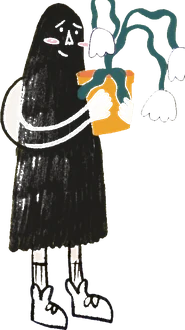
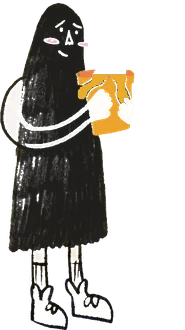
Walk game: Pink/Orange/Blue to pick, shadow guy waits with an empty pot, bouquet fan with stems, still strawberries that speed you up, smaller flowers

diff --git a/assets/walk.js b/assets/walk.js
@@ -16,21 +16,22 @@
   var W = 0, H = 0, U = 1, DPR = 1; // canvas size in css pixels, and one "design unit" (H / 360)
   var SPEED = 70;                   // how fast the hill scrolls, in design units per second
   var CHARS = [
-    { id: 'pink', label: 'Pink', h: 118, lift: 0 },
-    { id: 'orange', label: 'Orange', h: 96, lift: 0 },
-    { id: 'blue', label: 'Blue', h: 84, lift: 16 },
-    { id: 'shadow', label: 'Shadow', h: 122, lift: 0 }
+    { id: 'pink', label: 'Pink', h: 104, lift: 0 },
+    { id: 'orange', label: 'Orange', h: 84, lift: 0 },
+    { id: 'blue', label: 'Blue', h: 74, lift: 14 }
   ];
+  var FRIEND = { id: 'shadow', h: 132, lift: 0 };   // waits at the end of the hill, with an empty pot
+  // the flowers she drew, whole: stem, leaves and all. They are shrunk down to fit the bouquet.
   var FLOWERS = [
-    { img: 'tulip-red-1', h: 104 }, { img: 'tulip-yel-1', h: 56 }, { img: 'tulip-red-2', h: 96 },
-    { img: 'daisy', h: 56 }, { img: 'tulip-yel-2', h: 60 }, { img: 'tulip-yel-3', h: 58 }
+    { img: 'tulip-red-1', h: 52, stem: '#357a7c' }, { img: 'tulip-yel-1', h: 32, stem: '#168a45' }, { img: 'tulip-red-2', h: 50, stem: '#357a7c' },
+    { img: 'daisy', h: 34, stem: '#b9c5a2' }, { img: 'tulip-yel-2', h: 32, stem: '#168a45' }, { img: 'tulip-yel-3', h: 32, stem: '#168a45' }
   ];
   var LADYBUG_LINES = ['keep going', 'you are doing great', 'small steps count', 'take your time', 'I am glad you are here'];
   var quotes = [], shareArt = 0, ladyLines = LADYBUG_LINES.slice();
 
   var IMG = {};
   var NAMES = ['pink', 'orange', 'blue', 'shadow', 'tulip-red-1', 'tulip-red-2', 'tulip-yel-1', 'tulip-yel-2', 'tulip-yel-3',
-    'daisy', 'strawberry', 'ladybug', 'sparkle', 'bird-left', 'bird-right'];
+    'daisy', 'strawberry', 'ladybug', 'sparkle'];
 
   /* ---------- Art ---------- */
   function loadArt() {
@@ -54,13 +55,13 @@
 
   /* ---------- World ---------- */
   var S = null;       // the current walk
-  var chosen = CHARS[0], friendChar = CHARS[1];
+  var chosen = CHARS[0], friendChar = FRIEND;
   var grass = [], clouds = [];
 
   function newWalk() {
     S = {
       mode: 'walk', t: 0, scroll: 0, step: 0,
-      got: 0, treats: 0, flowers: [],
+      got: 0, treats: 0, boost: 0, flowers: [],
       px: 0, py: 0, vy: 0, squash: 0, slow: 0, hopped: false,
       items: [], spawnIn: 0.8, sinceFlower: 0, ladyIn: 7, lady: null,
       drops: [], bits: [], gift: 0, friend: null, endIn: 0, shown: false
@@ -76,10 +77,10 @@
     S.sinceFlower++;
     var type = (S.sinceFlower >= 2 && r < 0.62) || S.sinceFlower >= 4 ? 'flower' : (r < 0.8 ? 'puddle' : 'treat');
     if (type === 'flower') S.sinceFlower = 0;
-    var it = { type: type, x: W + 120 * U, got: false, hit: false };
-    if (type === 'flower') { var f = FLOWERS[Math.floor(Math.random() * FLOWERS.length)]; it.img = f.img; it.h = f.h; }
+    var it = { type: type, x: W + 120 * U, got: false, hit: false, id: Math.random() * 6 };
+    if (type === 'flower') { var f = FLOWERS[Math.floor(Math.random() * FLOWERS.length)]; it.img = f.img; it.h = f.h; it.stem = f.stem; }
     if (type === 'puddle') { it.w = 118 + Math.random() * 40; }
-    if (type === 'treat') { it.img = 'strawberry'; it.h = 40; it.lift = 92 + Math.random() * 20; }
+    if (type === 'treat') { it.img = 'strawberry'; it.h = 34; it.lift = 84 + Math.random() * 16; }
     S.items.push(it);
     S.spawnIn = gap;
   }
@@ -113,11 +114,10 @@
     var top = mix([169, 214, 245], [246, 182, 160], p), low = mix([254, 246, 220], [255, 224, 170], p);
     var g = ctx.createLinearGradient(0, 0, 0, groundY()); g.addColorStop(0, rgb(top)); g.addColorStop(1, rgb(low));
     ctx.fillStyle = g; ctx.fillRect(0, 0, W, H);
-    var sx = W * 0.8, sy = H * (0.2 + 0.26 * p);
-    ctx.fillStyle = '#ffd94a'; ctx.strokeStyle = INK; ctx.lineWidth = 3 * U;
-    ctx.beginPath(); ctx.arc(sx, sy, 24 * U, 0, 7); ctx.fill(); ctx.stroke();
-    ctx.fillStyle = '#f590c9'; ctx.globalAlpha = 0.7; ctx.beginPath(); ctx.ellipse(sx - 9 * U, sy + 5 * U, 5 * U, 3 * U, 0, 0, 7); ctx.ellipse(sx + 9 * U, sy + 5 * U, 5 * U, 3 * U, 0, 0, 7); ctx.fill(); ctx.globalAlpha = 1;
-    ctx.strokeStyle = INK; ctx.lineWidth = 2 * U; ctx.beginPath(); ctx.arc(sx - 8 * U, sy - 2 * U, 4 * U, 0.15 * Math.PI, 0.85 * Math.PI); ctx.arc(sx + 8 * U, sy - 2 * U, 4 * U, 0.15 * Math.PI, 0.85 * Math.PI); ctx.stroke();
+    // the sun peeks in from the top right corner (a flat placeholder until her painted sun is added)
+    var sr = 84 * U;
+    ctx.fillStyle = '#e0b43c'; ctx.strokeStyle = INK; ctx.lineWidth = 3 * U;
+    ctx.beginPath(); ctx.arc(W + 8 * U, -8 * U, sr, 0, 7); ctx.fill(); ctx.stroke();
   }
   function drawClouds() {
     clouds.forEach(function (c) {
@@ -162,26 +162,36 @@
     ctx.save(); ctx.translate(x, y); ctx.scale(s, s); ctx.globalAlpha = a; ctx.fillStyle = '#f590c9'; ctx.strokeStyle = INK; ctx.lineWidth = 1.5;
     ctx.beginPath(); ctx.moveTo(0, 6); ctx.bezierCurveTo(-14, -4, -8, -14, 0, -6); ctx.bezierCurveTo(8, -14, 14, -4, 0, 6); ctx.fill(); ctx.stroke(); ctx.restore();
   }
-  // The bouquet in the corner grows with every flower gathered. At the end it travels to the friend.
-  function drawBouquet(bx, by, scale, spread) {
-    var n = S.flowers.length;
-    for (var i = 0; i < n; i++) {
-      var t = n === 1 ? 0.5 : i / (n - 1), ang = (-0.62 + 1.24 * t) * spread;
-      pic(S.flowers[i].img, bx, by, S.flowers[i].h * 0.62 * scale, ang);
-    }
-    if (n) {
-      ctx.fillStyle = '#f590c9'; ctx.strokeStyle = INK; ctx.lineWidth = 2 * U;
-      ctx.beginPath(); ctx.ellipse(bx - 9 * U * scale, by - 2 * U, 10 * U * scale, 6 * U * scale, -0.4, 0, 7); ctx.ellipse(bx + 9 * U * scale, by - 2 * U, 10 * U * scale, 6 * U * scale, 0.4, 0, 7); ctx.fill(); ctx.stroke();
-      ctx.beginPath(); ctx.arc(bx, by - 2 * U, 4 * U * scale, 0, 7); ctx.fillStyle = '#ffd94a'; ctx.fill(); ctx.stroke();
+  // The bouquet grows with every flower gathered: the whole flowers fan out from one point, small and tidy,
+  // with paper and a bow at the bottom. `inPot` draws just the flowers (no paper) for the friend's pot.
+  var SLOTS = [0, 1, -1, 2, -2, 3, -3, 4];
+  function drawBouquet(bx, by, scale, inPot) {
+    var n = S.flowers.length, k = 0.78 * scale;
+    var order = []; for (var i = 0; i < n; i++) order.push(i);
+    order.sort(function (a, b) { return Math.abs(SLOTS[b]) - Math.abs(SLOTS[a]); });   // outer flowers first, middle on top
+    order.forEach(function (i) {
+      var f = S.flowers[i], a = SLOTS[i] * 0.17 * (inPot ? 0.62 : 1), len = (30 - 2.5 * Math.abs(SLOTS[i])) * U * scale;
+      var ex = bx + Math.sin(a) * len, ey = by - Math.cos(a) * len;
+      ctx.strokeStyle = f.stem || '#357a7c'; ctx.lineWidth = 3 * U * scale; ctx.lineCap = 'round';
+      ctx.beginPath(); ctx.moveTo(bx, by - 2 * U); ctx.lineTo(ex, ey + 2 * U); ctx.stroke();
+      pic(f.img, ex, ey, (34 + f.h * 0.8) * k * (1 - 0.035 * Math.abs(SLOTS[i])), a);
+    });
+    if (n && !inPot) {
+      var w = 15 * U * scale;
+      ctx.fillStyle = '#fffdf7'; ctx.strokeStyle = INK; ctx.lineWidth = 2 * U; ctx.lineJoin = 'round';
+      ctx.beginPath(); ctx.moveTo(bx - w, by - 13 * U * scale); ctx.lineTo(bx + w, by - 13 * U * scale); ctx.lineTo(bx + 3 * U * scale, by + 9 * U * scale); ctx.lineTo(bx - 3 * U * scale, by + 9 * U * scale); ctx.closePath(); ctx.fill(); ctx.stroke();
+      ctx.fillStyle = '#f590c9';
+      ctx.beginPath(); ctx.ellipse(bx - 6 * U * scale, by - 5 * U * scale, 6 * U * scale, 3.4 * U * scale, -0.35, 0, 7); ctx.ellipse(bx + 6 * U * scale, by - 5 * U * scale, 6 * U * scale, 3.4 * U * scale, 0.35, 0, 7); ctx.fill(); ctx.stroke();
+      ctx.beginPath(); ctx.arc(bx, by - 5 * U * scale, 2.4 * U * scale, 0, 7); ctx.fillStyle = '#ffd94a'; ctx.fill(); ctx.stroke();
     }
   }
   function drawHud() {
-    var x = 64 * U, y = 118 * U;
+    var x = 64 * U, y = 128 * U;
     ctx.fillStyle = 'rgba(255,253,247,.8)'; ctx.strokeStyle = INK; ctx.lineWidth = 2.5 * U;
-    ctx.beginPath(); ctx.roundRect ? ctx.roundRect(12 * U, 12 * U, 104 * U, 112 * U, 14 * U) : ctx.rect(12 * U, 12 * U, 104 * U, 112 * U); ctx.fill(); ctx.stroke();
+    ctx.beginPath(); ctx.roundRect ? ctx.roundRect(12 * U, 12 * U, 104 * U, 128 * U, 14 * U) : ctx.rect(12 * U, 12 * U, 104 * U, 128 * U); ctx.fill(); ctx.stroke();
     ctx.fillStyle = INK; ctx.font = '600 ' + 13 * U + 'px "Comic Sans MS","Comic Neue",cursive'; ctx.textAlign = 'center';
     ctx.fillText(S.got + ' of ' + NEED, 64 * U, 32 * U); ctx.textAlign = 'left';
-    if (S.mode !== 'gift' && S.mode !== 'done') drawBouquet(x, y, 1, 1);
+    if (S.mode !== 'gift' && S.mode !== 'done') drawBouquet(x, y, 1, false);
   }
   function drawBubble(x, y, text) {
     ctx.font = '700 ' + 14 * U + 'px "Comic Sans MS","Comic Neue",cursive';
@@ -201,20 +211,27 @@
     if (S.friend) drawTree(S.friend.x + 10 * U);
     S.items.forEach(function (it) {
       if (it.type === 'puddle') drawPuddle(it.x, it.w, it.hit);
-      else if (!it.got) { var sway = Math.sin(S.t * 2 + it.x * 0.02) * 0.04; pic(it.img, it.x, groundY() - (it.lift || 0) * U + (it.type === 'treat' ? Math.sin(S.t * 2.4 + it.x) * 4 * U : 0), it.h, sway); }
+      else if (!it.got) { var sway = it.type === 'treat' ? 0.05 : Math.sin(S.t * 1.4 + it.id) * 0.03; pic(it.img, it.x, groundY() - (it.lift || 0) * U, it.h, sway); }
     });
+    var happy = (S.mode === 'gift' || S.mode === 'done') && S.gift >= 1, pot = null, fb = 0;
     if (S.friend) {
-      var fb = Math.max(0, Math.sin(S.t * 3.2)) * 7 * U * (S.mode === 'gift' || S.mode === 'done' ? 1.6 : 0.6);
-      pic(friendChar.id, S.friend.x, groundY() - fb - friendChar.lift * U, friendChar.h * 0.95, Math.sin(S.t * 2) * 0.03);
+      fb = Math.max(0, Math.sin(S.t * 3.2)) * 7 * U * (happy ? 1.8 : 0.5);
+      var fs = friendChar.h * U / 330, fy = groundY() - fb - friendChar.lift * U;
+      pot = { x: S.friend.x + (110 - 92.5) * fs, y: fy + (94 - 330) * fs };
+      if (happy) drawBouquet(pot.x, pot.y, 0.55, true);          // the flowers stand in his pot, behind its front
+      pic(friendChar.id, S.friend.x, fy, friendChar.h, happy ? Math.sin(S.t * 5) * 0.035 : Math.sin(S.t * 2) * 0.02);
     }
     // the walker: little bob, a squash when landing, and a lift for the floaty blue one
     var bob = S.mode === 'walk' && S.slow <= 0 ? Math.sin(S.t * 6) * 1.8 * U : 0, sq = S.squash > 0 ? 1 - 0.1 * S.squash : 1;
     pic(chosen.id, playerX(), groundY() + S.py - chosen.lift * U + bob - (chosen.lift ? Math.sin(S.t * 2.2) * 5 * U : 0), chosen.h, Math.sin(S.t * 3) * 0.035, 1 / sq, sq);
     // gift on its way to the friend
     if (S.mode === 'gift' || S.mode === 'done') {
-      var k = Math.min(1, S.gift), ease = k * k * (3 - 2 * k), fx = S.friend.x - 34 * U;
-      drawBouquet(64 * U + (fx - 64 * U) * ease, 118 * U + (groundY() - 40 * U - 118 * U) * ease - Math.sin(ease * Math.PI) * 30 * U, 1 + 0.5 * ease, 1);
-      if (k >= 1) for (var h = 0; h < 4; h++) drawHeart(S.friend.x + Math.sin(S.t * 1.8 + h * 1.7) * 30 * U, groundY() - (90 + ((S.t * 22 + h * 24) % 70)) * U, 1.3 * U / 1.0, 0.9);
+      var k = Math.min(1, S.gift), ease = k * k * (3 - 2 * k);
+      if (k < 1) drawBouquet(64 * U + (pot.x - 64 * U) * ease, 128 * U + (pot.y - 128 * U) * ease - Math.sin(ease * Math.PI) * 34 * U, 1 - 0.45 * ease, false);
+      else {
+        for (var h = 0; h < 4; h++) drawHeart(S.friend.x + Math.sin(S.t * 1.8 + h * 1.7) * 34 * U, groundY() - (friendChar.h + 4 + ((S.t * 22 + h * 22) % 56)) * U, 1.3 * U, 0.9);
+        drawBubble(S.friend.x, groundY() - fb - (friendChar.h + 14) * U, 'Aw thanks!');
+      }
     }
     // ladybug and its message
     if (S.lady) {
@@ -235,7 +252,7 @@
   function update(dt) {
     S.t += dt;
     var walking = S.mode === 'walk', ending = S.mode === 'end';
-    var speed = (S.slow > 0 ? 0.55 : 1) * SPEED * U;
+    var speed = (S.slow > 0 ? 0.55 : S.boost > 0 ? 1.6 : 1) * SPEED * U;
     // scrolling (a step at a time when motion is reduced)
     var move = 0;
     if (S.mode === 'walk' || S.mode === 'end') {
@@ -254,7 +271,7 @@
     // hopping
     S.vy += 760 * U * dt; S.py += S.vy * dt;
     if (S.py >= 0) { if (S.vy > 60 * U) S.squash = 1; S.py = 0; S.vy = 0; S.hopped = false; }
-    S.squash = Math.max(0, S.squash - dt * 6); S.slow = Math.max(0, S.slow - dt);
+    S.squash = Math.max(0, S.squash - dt * 6); S.slow = Math.max(0, S.slow - dt); S.boost = Math.max(0, S.boost - dt);
     // spawning
     if (walking) {
       S.spawnIn -= (reduceMotion ? move / (SPEED * U) : dt);
@@ -268,10 +285,10 @@
     S.items.forEach(function (it) {
       var near = Math.abs(it.x - px) < (it.type === 'puddle' ? it.w * U * 0.42 : 34 * U);
       if (it.type === 'flower' && !it.got && near && S.mode === 'walk') {
-        it.got = true; S.got++; S.flowers.push({ img: it.img, h: it.h }); sparkle(it.x, groundY() - it.h * U * 0.7, 5); chime(S.got);
+        it.got = true; S.got++; S.flowers.push({ img: it.img, h: it.h, stem: it.stem }); sparkle(it.x, groundY() - it.h * U * 0.7, 5); chime(S.got);
         say('Picked a flower. ' + S.got + ' of ' + NEED + '.');
       } else if (it.type === 'treat' && !it.got && near && Math.abs((groundY() - it.lift * U) - (groundY() + S.py - 40 * U)) < 54 * U) {
-        it.got = true; S.treats++; sparkle(it.x, groundY() - it.lift * U, 6); chime(1);
+        it.got = true; S.treats++; S.boost = 2.2; S.slow = 0; sparkle(it.x, groundY() - it.lift * U, 6); chime(1); say('A strawberry. A little burst of speed.');
       } else if (it.type === 'puddle' && near && !it.hit) {
         it.hit = true;
         if (S.py > -16 * U) { S.slow = 0.9; splash(it.x, groundY() + 8 * U); }
@@ -282,8 +299,8 @@
     if (S.lady) {
       S.lady.x -= (reduceMotion ? 30 : 46) * U * dt; S.lady.t += dt; S.lady.y += Math.sin(S.lady.t * 2) * 0.25 * U;
       if (!S.lady.said && S.lady.x < px + 160 * U) { S.lady.say = ladyLines[Math.floor(Math.random() * ladyLines.length)]; S.lady.said = true; say('A ladybug says: ' + S.lady.say); }
-      if (S.lady.said && S.lady.x < px - 200 * U) S.lady = null;
-      else if (S.lady.x < -40 * U) S.lady = null;
+      if (S.lady.said && S.lady.x < px + 10 * U) S.lady.y -= 70 * U * dt;      // after saying it, up and away
+      if (S.lady && (S.lady.y < -30 * U || S.lady.x < -40 * U)) S.lady = null;
     }
     // the hand-over
     if (S.mode === 'gift') {
@@ -326,8 +343,6 @@
   }
   function begin() {
     $('#walkPick').classList.remove('is-open'); $('#walkPick').hidden = true; $('#walkEnd').hidden = true;
-    var others = CHARS.filter(function (c) { return c.id !== chosen.id; });
-    friendChar = others[Math.floor(Math.random() * others.length)];
     newWalk(); resize(); say('Walking. Press space or tap to hop.'); start(); cv.focus({ preventScroll: true });
   }
   function openPick() {

diff --git a/walk/index.html b/walk/index.html
@@ -25,8 +25,8 @@
 <link href="https://fonts.googleapis.com/css2?family=Karla:wght@400;500;700&family=Comic+Neue:wght@400;700&display=swap" rel="stylesheet">
 
 <!-- Styles -->
-<link rel="stylesheet" href="/assets/site.css?v=45">
-<link rel="stylesheet" href="/assets/walk.css?v=45">
+<link rel="stylesheet" href="/assets/site.css?v=51">
+<link rel="stylesheet" href="/assets/walk.css?v=51">
 </head>
 <body data-page="walk">
 <a class="skip" href="#main">Skip to content</a>
@@ -54,7 +54,7 @@
     <div class="wrap">
       <div class="kicker">Little extras</div>
       <h1>A little walk</h1>
-      <p class="lede">Pick a friend, gather flowers for a bouquet, and hop the puddles if you like. There's no score, no timer, and nothing to lose.</p>
+      <p class="lede">Pick a friend and gather flowers for someone waiting at the end of the hill. Hop the puddles if you like. There's no score, no timer, and nothing to lose.</p>
     </div>
   </section>
 
@@ -180,7 +180,7 @@
 </dialog>
 <!-- @/dialogs -->
 
-<script src="/assets/app.js?v=45" defer></script>
-<script src="/assets/walk.js?v=45" defer></script>
+<script src="/assets/app.js?v=51" defer></script>
+<script src="/assets/walk.js?v=51" defer></script>
 </body>
 </html>

diff --git a/assets/walk.css b/assets/walk.css
@@ -11,7 +11,7 @@
 }
 .walk-pick[hidden], .walk-end[hidden] { display: none; }
 .walk-pick h2 { font-size: clamp(1.5rem, 3.4vw, 2.2rem); margin: 0; }
-.walk-chars { display: grid; grid-template-columns: repeat(4, minmax(0, 1fr)); gap: 12px; width: min(560px, 100%); }
+.walk-chars { display: grid; grid-template-columns: repeat(3, minmax(0, 1fr)); gap: 12px; width: min(460px, 100%); }
 .walk-char {
   display: flex; flex-direction: column; align-items: center; gap: 4px; padding: 10px 6px 8px; cursor: pointer;
   background: var(--paper); border: 2.5px solid var(--ink); border-radius: 16px 20px 16px 22px; box-shadow: 3px 3px 0 var(--ink);
@@ -26,10 +26,9 @@
 .walk-bar { display: flex; justify-content: center; gap: 14px; margin-top: 26px; }
 @media (max-width: 640px) {
   #walkCanvas { aspect-ratio: 4 / 5; }
-  .walk-chars { grid-template-columns: repeat(2, minmax(0, 1fr)); }
   .walk-pick { gap: 10px; padding: 14px; }
   .walk-chars { gap: 8px; }
   .walk-char { padding: 6px 4px 5px; }
-  .walk-char img { height: 56px; }
+  .walk-char img { height: 62px; }
   .walk-stage { border-radius: 16px; box-shadow: 5px 5px 0 var(--ink); }
 }

diff --git a/portfolio/index.html b/portfolio/index.html
@@ -25,7 +25,7 @@
 <link href="https://fonts.googleapis.com/css2?family=Karla:wght@400;500;700&family=Comic+Neue:wght@400;700&display=swap" rel="stylesheet">
 
 <!-- Styles -->
-<link rel="stylesheet" href="/assets/site.css?v=45">
+<link rel="stylesheet" href="/assets/site.css?v=51">
 </head>
 <body data-page="portfolio">
 <a class="skip" href="#main">Skip to content</a>
@@ -195,6 +195,6 @@
 </dialog>
 <!-- @/dialogs -->
 
-<script src="/assets/app.js?v=45" defer></script>
+<script src="/assets/app.js?v=51" defer></script>
 </body>
 </html>

diff --git a/extras/index.html b/extras/index.html
@@ -25,7 +25,7 @@
 <link href="https://fonts.googleapis.com/css2?family=Karla:wght@400;500;700&family=Comic+Neue:wght@400;700&display=swap" rel="stylesheet">
 
 <!-- Styles -->
-<link rel="stylesheet" href="/assets/site.css?v=45">
+<link rel="stylesheet" href="/assets/site.css?v=51">
 </head>
 <body data-page="extras">
 <a class="skip" href="#main">Skip to content</a>
@@ -257,6 +257,6 @@
 </dialog>
 <!-- @/dialogs -->
 
-<script src="/assets/app.js?v=45" defer></script>
+<script src="/assets/app.js?v=51" defer></script>
 </body>
 </html>

diff --git a/about/index.html b/about/index.html
@@ -25,7 +25,7 @@
 <link href="https://fonts.googleapis.com/css2?family=Karla:wght@400;500;700&family=Comic+Neue:wght@400;700&display=swap" rel="stylesheet">
 
 <!-- Styles -->
-<link rel="stylesheet" href="/assets/site.css?v=45">
+<link rel="stylesheet" href="/assets/site.css?v=51">
 </head>
 <body data-page="about">
 <a class="skip" href="#main">Skip to content</a>
@@ -192,6 +192,6 @@
 </dialog>
 <!-- @/dialogs -->
 
-<script src="/assets/app.js?v=45" defer></script>
+<script src="/assets/app.js?v=51" defer></script>
 </body>
 </html>

diff --git a/pause/index.html b/pause/index.html
@@ -25,7 +25,7 @@
 <link href="https://fonts.googleapis.com/css2?family=Karla:wght@400;500;700&family=Comic+Neue:wght@400;700&display=swap" rel="stylesheet">
 
 <!-- Styles -->
-<link rel="stylesheet" href="/assets/site.css?v=45">
+<link rel="stylesheet" href="/assets/site.css?v=51">
 </head>
 <body data-page="pause">
 <a class="skip" href="#main">Skip to content</a>
@@ -164,6 +164,6 @@
 </dialog>
 <!-- @/dialogs -->
 
-<script src="/assets/app.js?v=45" defer></script>
+<script src="/assets/app.js?v=51" defer></script>
 </body>
 </html>

diff --git a/shop/index.html b/shop/index.html
@@ -25,7 +25,7 @@
 <link href="https://fonts.googleapis.com/css2?family=Karla:wght@400;500;700&family=Comic+Neue:wght@400;700&display=swap" rel="stylesheet">
 
 <!-- Styles -->
-<link rel="stylesheet" href="/assets/site.css?v=45">
+<link rel="stylesheet" href="/assets/site.css?v=51">
 </head>
 <body data-page="shop">
 <a class="skip" href="#main">Skip to content</a>
@@ -175,6 +175,6 @@
 </dialog>
 <!-- @/dialogs -->
 
-<script src="/assets/app.js?v=45" defer></script>
+<script src="/assets/app.js?v=51" defer></script>
 </body>
 </html>

diff --git a/book/index.html b/book/index.html
@@ -25,7 +25,7 @@
 <link href="https://fonts.googleapis.com/css2?family=Karla:wght@400;500;700&family=Comic+Neue:wght@400;700&display=swap" rel="stylesheet">
 
 <!-- Styles -->
-<link rel="stylesheet" href="/assets/site.css?v=45">
+<link rel="stylesheet" href="/assets/site.css?v=51">
 <!-- Info for Google -->
 <script type="application/ld+json">
 {
@@ -207,6 +207,6 @@
 </dialog>
 <!-- @/dialogs -->
 
-<script src="/assets/app.js?v=45" defer></script>
+<script src="/assets/app.js?v=51" defer></script>
 </body>
 </html>

diff --git a/index.html b/index.html
@@ -26,7 +26,7 @@
 
 <!-- Styles -->
 <link rel="preload" as="image" href="/images/hits/just-relax-45.webp" fetchpriority="high">
-<link rel="stylesheet" href="/assets/site.css?v=45">
+<link rel="stylesheet" href="/assets/site.css?v=51">
 <!-- Info for Google -->
 <script type="application/ld+json">
 {
@@ -312,6 +312,6 @@
 </dialog>
 <!-- @/dialogs -->
 
-<script src="/assets/app.js?v=45" defer></script>
+<script src="/assets/app.js?v=51" defer></script>
 </body>
 </html>

diff --git a/404.html b/404.html
@@ -9,7 +9,7 @@
 <link rel="preconnect" href="https://fonts.googleapis.com">
 <link rel="preconnect" href="https://fonts.gstatic.com" crossorigin>
 <link href="https://fonts.googleapis.com/css2?family=Karla:wght@400;500;700&family=Comic+Neue:wght@400;700&display=swap" rel="stylesheet">
-<link rel="stylesheet" href="/assets/site.css?v=45">
+<link rel="stylesheet" href="/assets/site.css?v=51">
 </head>
 <body>
 <main class="hero-banner">
